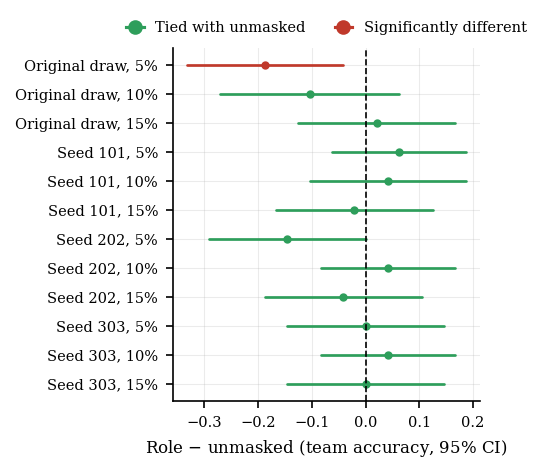
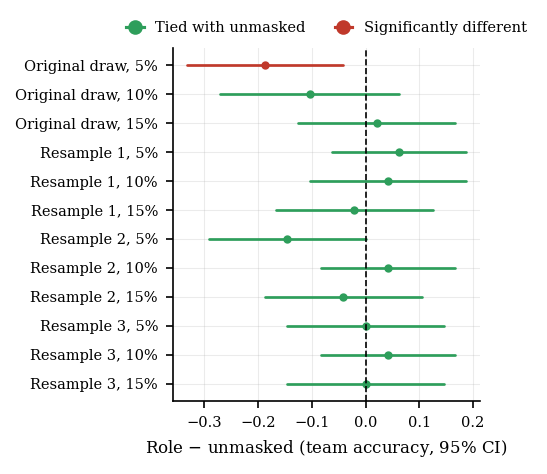
Relabel calibration resamples in fig2

diff --git a/scripts/generate_paper_assets.py b/scripts/generate_paper_assets.py
@@ -104,15 +104,15 @@ def fig2_compensation():
         ("Original draw, 5%", -0.1875, -0.3333, -0.0417),
         ("Original draw, 10%", -0.1042, -0.2708, 0.0625),
         ("Original draw, 15%", 0.0208, -0.1250, 0.1667),
-        ("Seed 101, 5%", 0.0625, -0.0625, 0.1875),
-        ("Seed 101, 10%", 0.0417, -0.1042, 0.1875),
-        ("Seed 101, 15%", -0.0208, -0.1667, 0.1250),
-        ("Seed 202, 5%", -0.1458, -0.2917, 0.0000),
-        ("Seed 202, 10%", 0.0417, -0.0833, 0.1667),
-        ("Seed 202, 15%", -0.0417, -0.1875, 0.1042),
-        ("Seed 303, 5%", 0.0000, -0.1458, 0.1458),
-        ("Seed 303, 10%", 0.0417, -0.0833, 0.1667),
-        ("Seed 303, 15%", 0.0000, -0.1458, 0.1458),
+        ("Resample 1, 5%", 0.0625, -0.0625, 0.1875),
+        ("Resample 1, 10%", 0.0417, -0.1042, 0.1875),
+        ("Resample 1, 15%", -0.0208, -0.1667, 0.1250),
+        ("Resample 2, 5%", -0.1458, -0.2917, 0.0000),
+        ("Resample 2, 10%", 0.0417, -0.0833, 0.1667),
+        ("Resample 2, 15%", -0.0417, -0.1875, 0.1042),
+        ("Resample 3, 5%", 0.0000, -0.1458, 0.1458),
+        ("Resample 3, 10%", 0.0417, -0.0833, 0.1667),
+        ("Resample 3, 15%", 0.0000, -0.1458, 0.1458),
     ]
     fig, ax = plt.subplots(figsize=(3.4, 3.2))
     ys = np.arange(len(compensation))[::-1]
